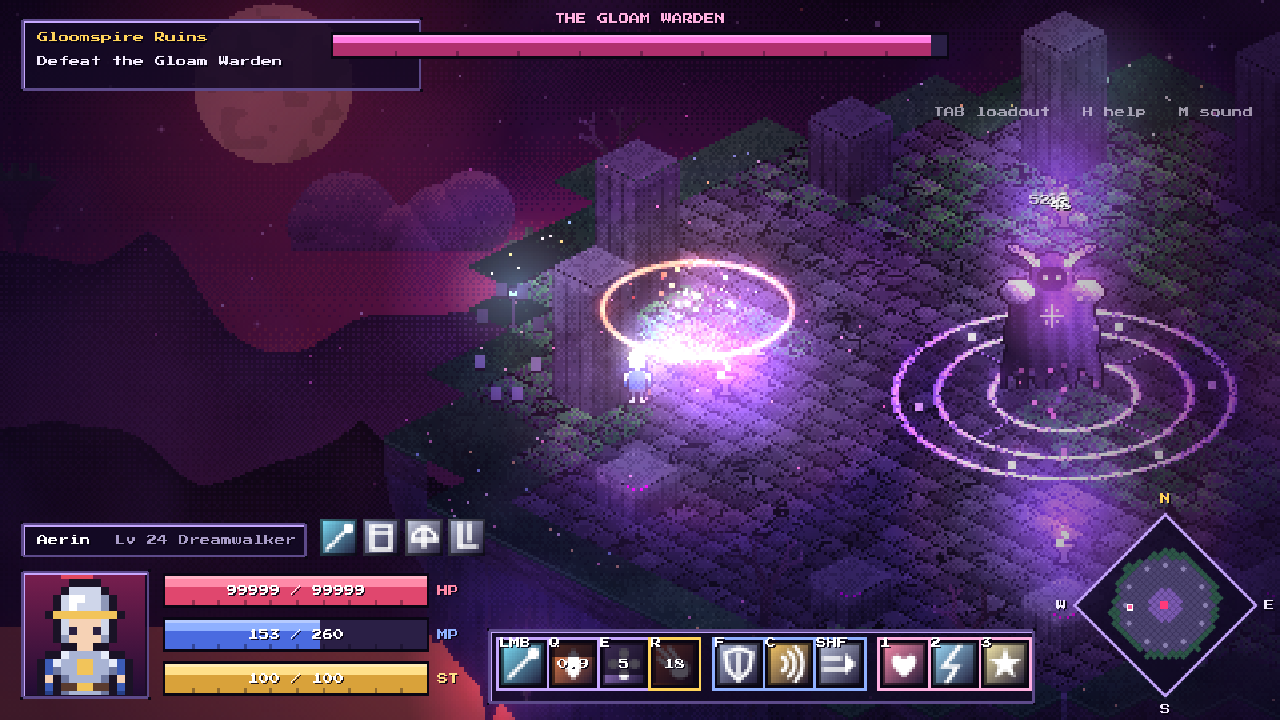
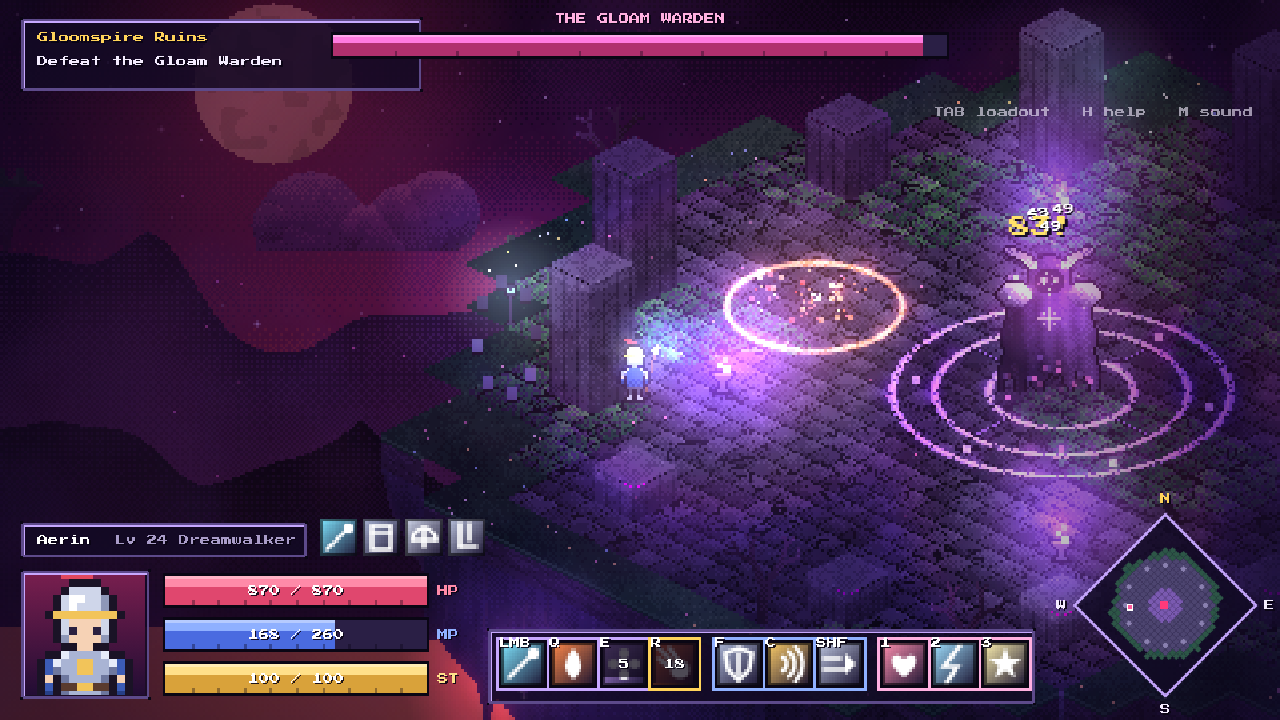
Fix return-rift direction text; retake README screenshots without debug HP
Claude-Session: https://claude.ai/code/session_01Kr98cP27dsCk6MsYsmeuZC

diff --git a/js/game.js b/js/game.js
@@ -603,7 +603,7 @@ function updateArena(dt) {
     G.boss = spawnEnemy('boss', G.map.cx + 1.5, G.map.cy - 1.5, 1.6);
   } else if (A.phase === 'boss' && G.boss && G.boss.dead) {
     A.phase = 'victory'; A.t = 99;
-    G.banner = { s: 'Victory', sub: 'The nightmare fades. A rift home opens to the southwest.', t: 5 };
+    G.banner = { s: 'Victory', sub: 'The nightmare fades. A rift home opens to the west.', t: 5 };
     for (const e of G.enemies) killEnemy(e);
     G.map.portalOpen = true;
   }

diff --git a/js/hud.js b/js/hud.js
@@ -184,7 +184,7 @@ function objective() {
   if (A.phase === 'intro') return 'Brace yourself...';
   if (A.phase === 'wave' || A.phase === 'break') return `Survive the waves (${A.wave + 1}/${WAVES.length})`;
   if (A.phase === 'bossIntro' || A.phase === 'boss') return 'Defeat the Gloam Warden';
-  return 'Return through the rift (SW)';
+  return 'Return through the rift (W)';
 }
 
 const SLOT_LABEL = { lmb: 'LMB', q: 'Q', e: 'E', r: 'R', f: 'F', c: 'C', shift: 'SHF', 1: '1', 2: '2', 3: '3' };
